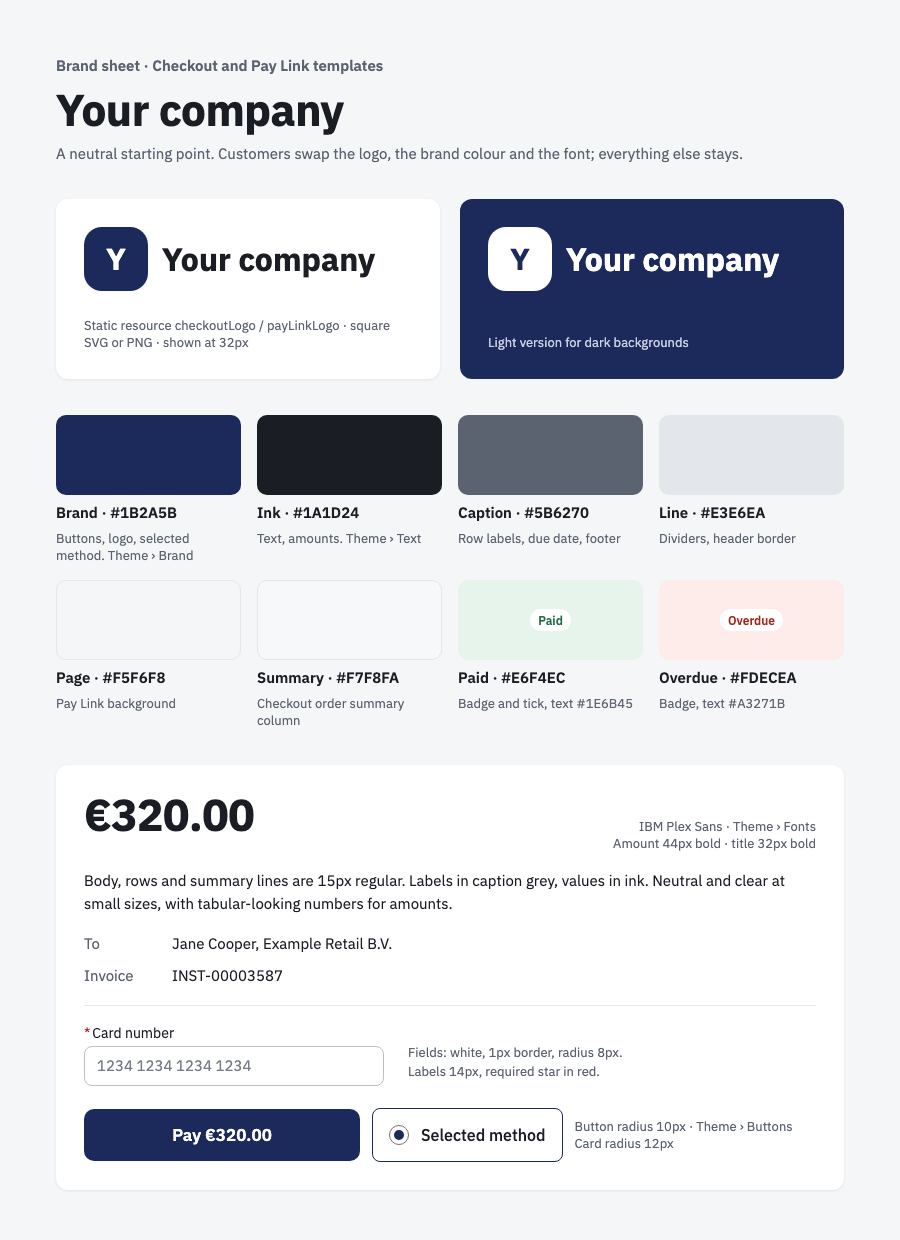
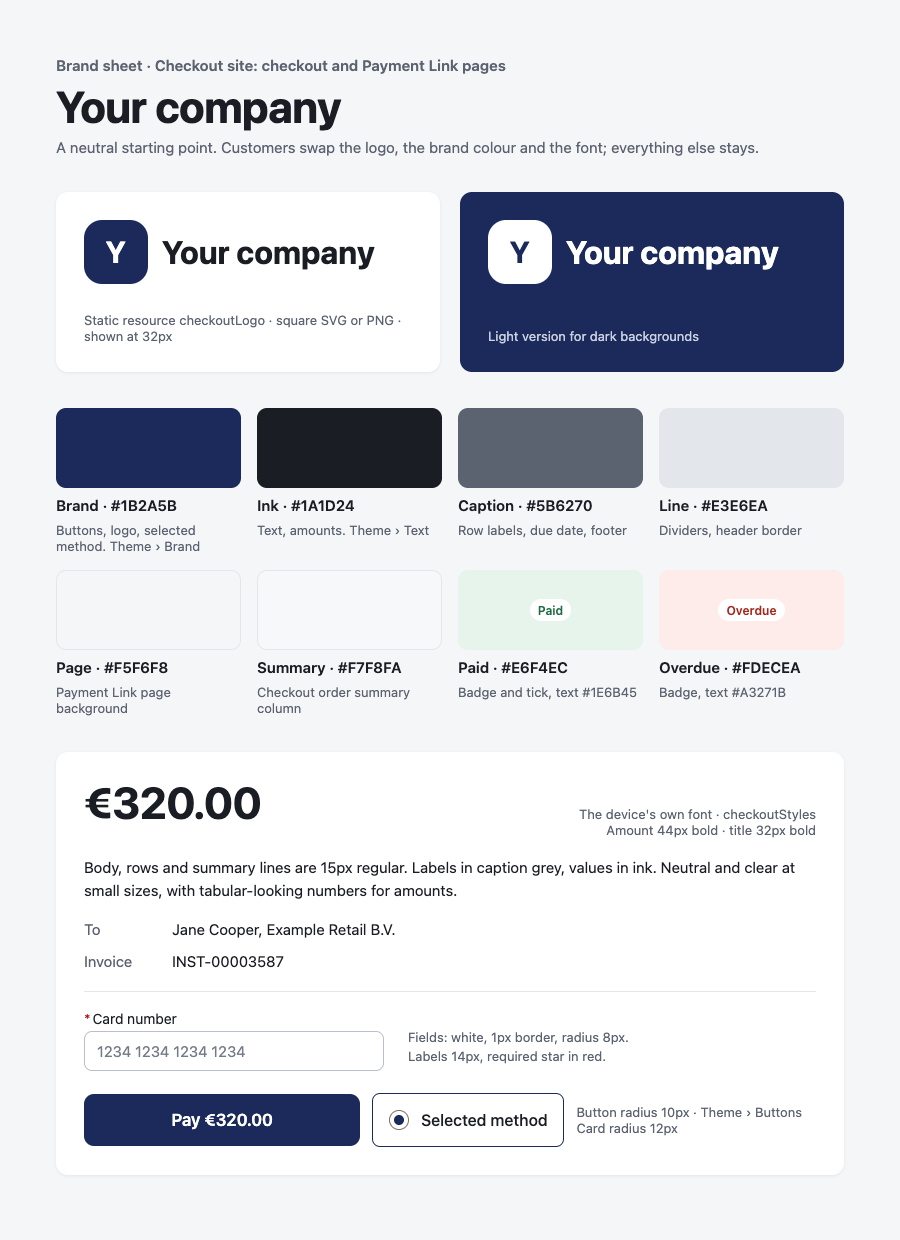
Use the device font on the checkout site, add README screenshots
- Checkout site: replace IBM Plex with the device's own font (set in
  checkoutStyles; the Theme panel fonts take a single name) and remove
  the Google Fonts link and trusted sites
- New screenshots of the checkout and donation sites, including each
  site's Payment Link page in its own styling
- Preview sections in every flow README, with the flow in Flow Builder
- Updated brand sheet: no IBM Plex or Pay Link references

diff --git a/sfdx-source/packages/checkout-site/staticresources/checkoutStyles.css b/sfdx-source/packages/checkout-site/staticresources/checkoutStyles.css
@@ -19,6 +19,16 @@
  * Keep those when you edit the flow's texts (for example to make the order lines dynamic).
  */
 
+/*
+ * Font: the device's own interface font (San Francisco on Apple devices, Segoe UI on Windows, Roboto on Android),
+ * so nothing is downloaded. The Theme panel's font fields take a single name, so the full list is set here and
+ * overrides them. To use a web font, put it first in this list and add its domain as a trusted site.
+ */
+html:root {
+    --dxp-s-html-font-family: system-ui, -apple-system, "Segoe UI", Roboto, "Helvetica Neue", Arial, sans-serif;
+    --dxp-g-root-font-family: var(--dxp-s-html-font-family);
+}
+
 /* Brand tokens, derived from the theme. Also on c-invoice-pay-flow for the Lightning Out embed (bottom of this file). */
 :root,
 c-invoice-pay-flow {
@@ -690,7 +700,7 @@ c-invoice-pay-flow {
     --dxp-g-brand-contrast: #FFFFFF;
     --dxp-g-root-contrast: #1A1D24;
     --dxp-g-root-contrast-2: #5B6270;
-    --dxp-s-html-font-family: "IBM Plex Sans", Inter, "Helvetica Neue", Arial, sans-serif;
+    --dxp-s-html-font-family: system-ui, -apple-system, "Segoe UI", Roboto, "Helvetica Neue", Arial, sans-serif;
     --dxp-g-root-font-family: var(--dxp-s-html-font-family);
     --dxp-s-text-heading-font-family: var(--dxp-s-html-font-family);
     --dxp-s-button-font-family: var(--dxp-s-html-font-family);
@@ -722,7 +732,7 @@ c-pay-link-flow {
     --dxp-g-brand-contrast: #FFFFFF;
     --dxp-g-root-contrast: #1A1D24;
     --dxp-g-root-contrast-2: #5B6270;
-    --dxp-s-html-font-family: "IBM Plex Sans", Inter, "Helvetica Neue", Arial, sans-serif;
+    --dxp-s-html-font-family: system-ui, -apple-system, "Segoe UI", Roboto, "Helvetica Neue", Arial, sans-serif;
     --dxp-g-root-font-family: var(--dxp-s-html-font-family);
     --dxp-s-text-heading-font-family: var(--dxp-s-html-font-family);
     --dxp-s-button-font-family: var(--dxp-s-html-font-family);

diff --git a/sfdx-source/packages/checkout-site/README.md b/sfdx-source/packages/checkout-site/README.md
@@ -38,11 +38,15 @@ The site is meant to be customized and extended to fit the specific use case and
 
 The checkout: payment on the left, a plain-text order summary on the right (shown above the payment on a phone).
 
+![The Payment Link page: one card for an invoice, in the same brand. The page's own light-grey background sets it apart from the checkout.](../../../docs/images/checkout-payment-link.png)
+
+The Payment Link page: one card for an invoice, in the same brand. The page's own light-grey background sets it apart from the checkout.
+
 ### Brand
 
-![The neutral brand the checkout and Payment Link templates share. Swap the logo, the brand colour and the font for your own.](../../../docs/images/brand-checkout-pay-link.png)
+![The neutral brand of the checkout and Payment Link pages. Swap the logo, the brand colour and the font for your own.](../../../docs/images/brand-checkout-pay-link.png)
 
-The neutral brand the checkout and Payment Link templates share. Swap the logo, the brand colour and the font for your own.
+The neutral brand of the checkout and Payment Link pages. Swap the logo, the brand colour and the font for your own.
 
 ## Prerequisites
 - FinDock is installed and configured.
@@ -61,7 +65,7 @@ The neutral brand the checkout and Payment Link templates share. Swap the logo, 
 
 > After a payment the Payment Link Flow sends the payer to `https://www.example.com/success` (or `/failure`). Replace these in the flow with this site's pages, e.g. `https://<your-domain>.my.site.com/<prefix>/payment-received`; see step 5 of the [Payment Link Flow installation](../pay-link/#installation).
 
-The installation will ask you to approve three trusted sites: external.findock.com (icons and pictures), and fonts.googleapis.com and fonts.gstatic.com (the site's web fonts).
+The installation will ask you to approve one trusted site: external.findock.com (icons and pictures).
 
 > The site itself is not part of this package. `Network` and `CustomSite` are deliberately excluded in `.forceignore` because they embed the creating user's email address and the org subdomain, which are not portable between orgs. This is why the site has to be created before the template is deployed.
 
@@ -75,7 +79,7 @@ The design reads the Experience Builder **Theme** panel, so you can rebrand with
 | Brand colour | Buttons, selected states, step indicator, and the light tints derived from it |
 | Background | Page background and header |
 | Text colours | Body copy and captions |
-| Fonts | Body and heading fonts |
+| Fonts | Not used: the site uses the device's own interface font (San Francisco on Apple devices, Segoe UI on Windows, Roboto on Android), set at the top of `checkoutStyles`, so nothing is downloaded. To use a web font, put it first in that list and approve its domain as a trusted site. |
 | Button and form element radius | Pills, tiles and fields |
 
 - Layout and component overrides live in the `checkoutStyles` static resource, loaded from the site's Head Markup. Its first part styles the shared header and footer and the checkout; the Payment Link part is scoped with `body:has(.paylink)`. The Payment Link page keeps a light-grey background behind its card.

diff --git a/sfdx-source/packages/pay-link/README.md b/sfdx-source/packages/pay-link/README.md
@@ -14,6 +14,24 @@ A screen flow for links to an existing FinDock record: pay an invoice or a payme
 The flow looks the id up as an installment and as a recurring payment, then shows one of three screens: pay, paid or not valid. The pay screen covers invoices, payment links and recurring payments with formulas instead of extra branches.
 
 
+## Preview
+
+![Invoice mode on the [checkout site](../checkout-site/): the amount, a short summary and the payment methods in one card.](../../../docs/images/checkout-payment-link.png)
+
+Invoice mode on the [checkout site](../checkout-site/): the amount, a short summary and the payment methods in one card.
+
+![Recurring mode: the payer picks a new payment method for future payments.](../../../docs/images/checkout-payment-link-recurring.png)
+
+Recurring mode: the payer picks a new payment method for future payments.
+
+![The same flow on the [donation site](../donation-site/), in its brand.](../../../docs/images/donation-payment-link.png)
+
+The same flow on the [donation site](../donation-site/), in its brand.
+
+![The flow in Flow Builder: find the installment or the recurring record by its GUID, then show the pay, paid or not-found screen.](../../../docs/images/builder-payment-link-flow.png)
+
+The flow in Flow Builder: find the installment or the recurring record by its GUID, then show the pay, paid or not-found screen.
+
 ## Prerequisites
 - FinDock is installed and configured, with at least one payment extension.
 - The installments you link to have a GUID (`cpm__GUID__c`).

diff --git a/sfdx-source/packages/checkout/README.md b/sfdx-source/packages/checkout/README.md
@@ -25,6 +25,16 @@ FinDock needs a success and a failure URL for every payment. The flow uses `http
 ## Order details
 The flow shows example order details. The element **Placeholder: get order details** fills `amount`, `currency`, `reference`, `frequency` and the payer's `Contact` with example values, and the Pay screen's order summary lists example order lines. Replace that element with a Get Records element that reads the order to pay, for example the standard Order object (Orders must be enabled in Setup), an Opportunity or your own object. The flow's optional `id` input variable (`?id=` in the page URL) is there to find that record. Give the site guest user read access to the object and fields you read.
 
+## Preview
+
+![The Checkout Flow on the [checkout site](../checkout-site/): payment on the left, the order summary on the right.](../../../docs/images/checkout-site.png)
+
+The Checkout Flow on the [checkout site](../checkout-site/): payment on the left, the order summary on the right.
+
+![The flow in Flow Builder: get the payer's browser details, the placeholder for the order details, and one Pay screen.](../../../docs/images/builder-checkout-flow.png)
+
+The flow in Flow Builder: get the payer's browser details, the placeholder for the order details, and one Pay screen.
+
 ## Prerequisites
 - FinDock is installed and configured.
 - FinDock is the source of payments data ([FinDock Standalone](https://docs.findock.com/docs/source-connectors/findock-standalone)).

diff --git a/sfdx-source/packages/donation-fundraising/README.md b/sfdx-source/packages/donation-fundraising/README.md
@@ -19,6 +19,20 @@ This template is meant to be customized and extended to fit specific use cases a
 - Collect one-time and recurring donations
 - Configurable amounts and frequencies
 
+## Preview
+
+![The donation flow on the [donation site](../donation-site/), styled as the fictional Canopy Gibbon Trust.](../../../docs/images/donation-site.png)
+
+The donation flow on the [donation site](../donation-site/), styled as the fictional Canopy Gibbon Trust.
+
+![The Donation Flow in Flow Builder: the payer's browser details, an example decision, gift tributes, the amount and details screens, the assignments for the contact, installment and gift commitment, and the Pay screen.](../../../docs/images/builder-donation-flow-fundraising.png)
+
+The Donation Flow in Flow Builder: the payer's browser details, an example decision, gift tributes, the amount and details screens, the assignments for the contact, installment and gift commitment, and the Pay screen.
+
+![The One Screen Donation Flow in Flow Builder: everything on one Pay screen.](../../../docs/images/builder-one-screen-donation-flow.png)
+
+The One Screen Donation Flow in Flow Builder: everything on one Pay screen.
+
 ## Prerequisites
 - FinDock is installed and configured.
 - FinDock for Fundraising is installed and configured.

diff --git a/sfdx-source/packages/donation-npsp/README.md b/sfdx-source/packages/donation-npsp/README.md
@@ -18,6 +18,16 @@ This template is meant to be customized and extended to fit specific use cases a
 - Configurable amounts and frequencies
 - Collect Gift Aid from UK donors
 
+## Preview
+
+![The donation flow on the [donation site](../donation-site/), styled as the fictional Canopy Gibbon Trust.](../../../docs/images/donation-site.png)
+
+The donation flow on the [donation site](../donation-site/), styled as the fictional Canopy Gibbon Trust.
+
+![The flow in Flow Builder: the payer's browser details, an example decision, the amount and details screens, the assignments for the contact, installment and recurring donation, and the Pay screen.](../../../docs/images/builder-donation-flow-npsp.png)
+
+The flow in Flow Builder: the payer's browser details, an example decision, the amount and details screens, the assignments for the contact, installment and recurring donation, and the Pay screen.
+
 ## Prerequisites
 - FinDock is installed and configured.
 - FinDock for NPSP is installed and configured.

diff --git a/sfdx-source/packages/donation-fundraising-uk/README.md b/sfdx-source/packages/donation-fundraising-uk/README.md
@@ -18,6 +18,16 @@ This template is meant to be customized and extended to fit specific use cases a
 - Configurable amounts and frequencies
 - Collect Gift Aid from UK donors
 
+## Preview
+
+![The donation flow on the [donation site](../donation-site/), styled as the fictional Canopy Gibbon Trust.](../../../docs/images/donation-site.png)
+
+The donation flow on the [donation site](../donation-site/), styled as the fictional Canopy Gibbon Trust.
+
+![The flow in Flow Builder: the same steps as the Fundraising donation flow; the Gift Aid declaration is on the Pay screen.](../../../docs/images/builder-donation-flow-fundraising-uk.png)
+
+The flow in Flow Builder: the same steps as the Fundraising donation flow; the Gift Aid declaration is on the Pay screen.
+
 ## Prerequisites
 - FinDock is installed and configured.
 - FinDock for Fundraising is installed and configured.

diff --git a/sfdx-source/packages/donation-site/README.md b/sfdx-source/packages/donation-site/README.md
@@ -34,6 +34,10 @@ The Payment Link page takes the same parameters as the one on the [checkout site
 
 The donation page, styled as the fictional Canopy Gibbon Trust.
 
+![The Payment Link page in the Canopy Gibbon Trust brand: the same card as on the checkout site, in the donation form's styling.](../../../docs/images/donation-payment-link.png)
+
+The Payment Link page in the Canopy Gibbon Trust brand: the same card as on the checkout site, in the donation form's styling.
+
 ### Brand
 
 ![The Canopy Gibbon Trust example brand: logo, colours, fonts and components. Replace them with your own.](../../../docs/images/brand-canopy-gibbon-trust.png)
